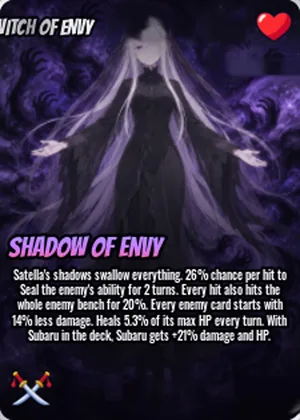
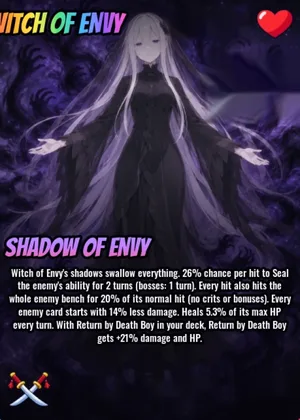
Witch of Envy: sharper image from owner's phone screenshot + updated passive text (sample)
Claude-Session: https://claude.ai/code/session_01WmZ8X4wY5cn7R6Px72U6Fk

diff --git a/HISTORY.md b/HISTORY.md
@@ -1366,3 +1366,9 @@
   - **คะแนนทีม Emperor Wall** (js/teamscore.js ในเบราว์เซอร์): 76 → **58** ทุกโหมด (Card power 0.53 เพราะ 4 ใบนี้เป็น B กลางตาราง · Synergy 0.48 · Coverage 0.40 ยังไม่มีการ์ด Meta/SS · Roles 0.96 · Position 0.80) · ⑤ จัดทีมใหม่
   - **ทดสอบ (Chromium 390×844):** `#tier` แถว Meta 0 / SS 0 / S 6 (Octopus Teacher, Quirk Thief Overlord, Founding Titan, Slime Demon Lord, Sword Saint, Ant King) · `#card/octopus-teacher` ป้าย Tier S + Overall 84 · `#card/dragon-emperor-monarch` · `#cards` · `#deck` ไม่มี JS error (404 เดียว = `audio/bgm.mp3` เหมือนเดิม) · JSON parse ได้ · การ์ดที่เปลี่ยน = 50 ใบพอดี
   - **ไฟล์:** `data/cards.json` `data/meta.json` · ใหม่ `tools/matchup_sim.py` `tools/rank_cards.py` · `PROGRESS.md` `HISTORY.md`
+- 2026-10-29: **ทดลองรูปชัดกับ 1 ใบ: Witch of Envy** (เจ้าของแคปจากมือถือ ระดับ Rainbow · ไม่แตะโค้ด ไม่เปลี่ยน `?v=`)
+  - **ที่มา:** รูปเดิมจากหน้า Index กว้างแค่ ~225px ข้อความคำอธิบายแตก · เจ้าของถามหาวิธีให้ชัด · ลอง AI ขยาย (Real-ESRGAN anime 6B ×4 บน CPU ~12 วิ/ใบ) กับ Sword Saint + Made in Heaven Priest แล้ว: **ภาพวาดคมขึ้น แต่ตัวหนังสือเล็กเพี้ยน (Pucci → Pocci, chance → ehance) ไม่ใช้** · แคปใหม่ดีกว่า
+  - **ผล:** แคปมุมมอง Index ที่ 2400×1080 ได้การ์ดกว้าง ~460px (เดิม ~225px) ข้อความอ่านออกทุกตัว · ตัดข้างในกรอบรุ้ง → 600×840 · ลบ HP / ป้าย 1 IN 92B / ป้าย RAINBOW / ATK / ×62 ด้วย `cv2.xphoto.inpaint` FSR_FAST (mask ป้าย x 405–600 y 100–250) · เหลือรอยเบลอจางๆ ข้างผมตรงที่ป้ายเคยอยู่ · webp q88 + thumb 300×420 q82
+  - **ข้อจำกัดของรูประดับ Rainbow:** ชื่อการ์ดบนรูปเป็นสีรุ้ง (เว็บใช้สีขาวแบบ Normal · แปลงสีกลับไม่ได้) และ HP ที่เว็บวาดชิดท้ายชื่อมากกว่าเดิมเล็กน้อย · รูปที่ดีที่สุดคือระดับ Normal + มุมมองการ์ดเต็มจอ (แบบ Shadow Monarch ~690px)
+  - **เกมแก้ข้อความความสามารถแล้ว:** ข้อมูลเดิมเขียน "Satella's … With Subaru in the deck, Subaru gets …" → ในเกมตอนนี้ "Witch of Envy's … With **Return by Death Boy** in your deck, Return by Death Boy gets …" + เพิ่ม "(bosses: 1 turn)" และ "(no crits or bonuses)" · ตัวเลขเท่าเดิม (ATK Rainbow 15,869,806 ÷ 7 = 2,267,115 ตรง) · แก้ `passive.desc` ของใบนี้แล้ว · ⚠ **การ์ดใบอื่นที่ใส่จากรูป Index เดิมอาจมีชื่อตัวละคร/ข้อความเก่าเหมือนกัน** · แคปใหม่ 100 ใบที่ติดอันดับ (หลังขั้น ③) จะได้อัปเดตข้อความด้วย
+  - **ไฟล์:** `images/cards/witch-of-envy.webp` + `thumb/` · `data/cards.json` · `HISTORY.md`
